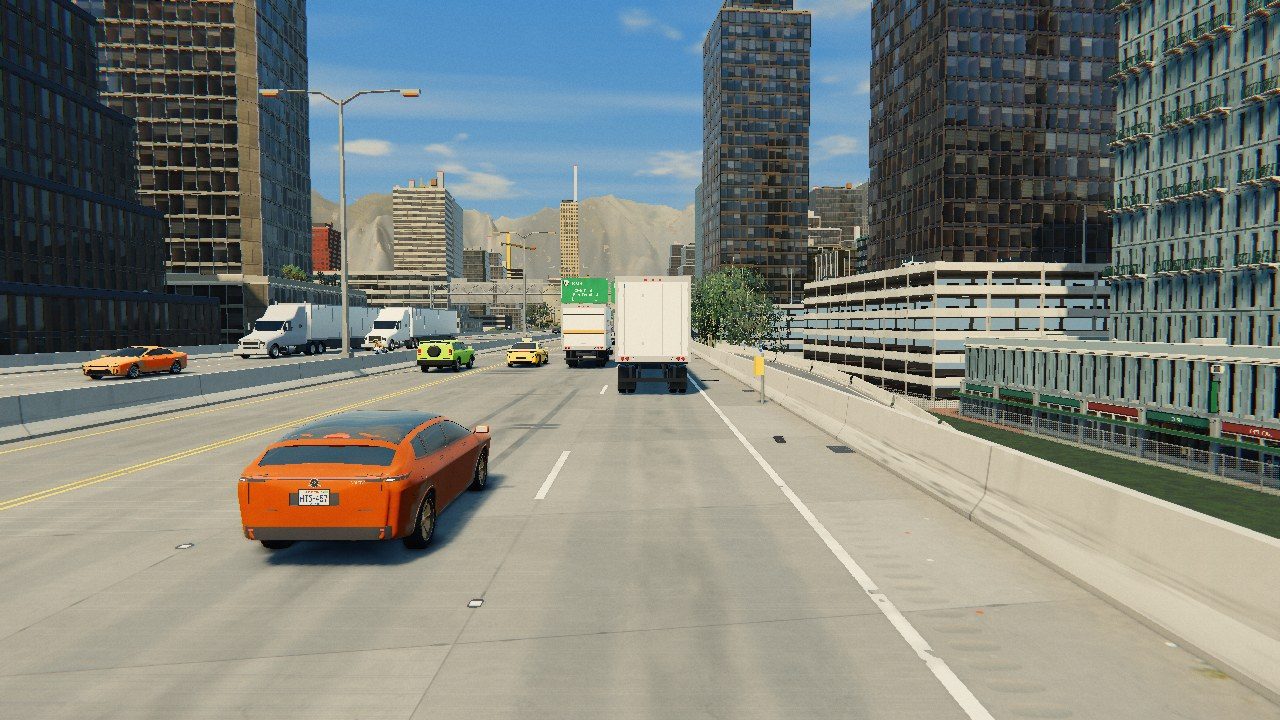
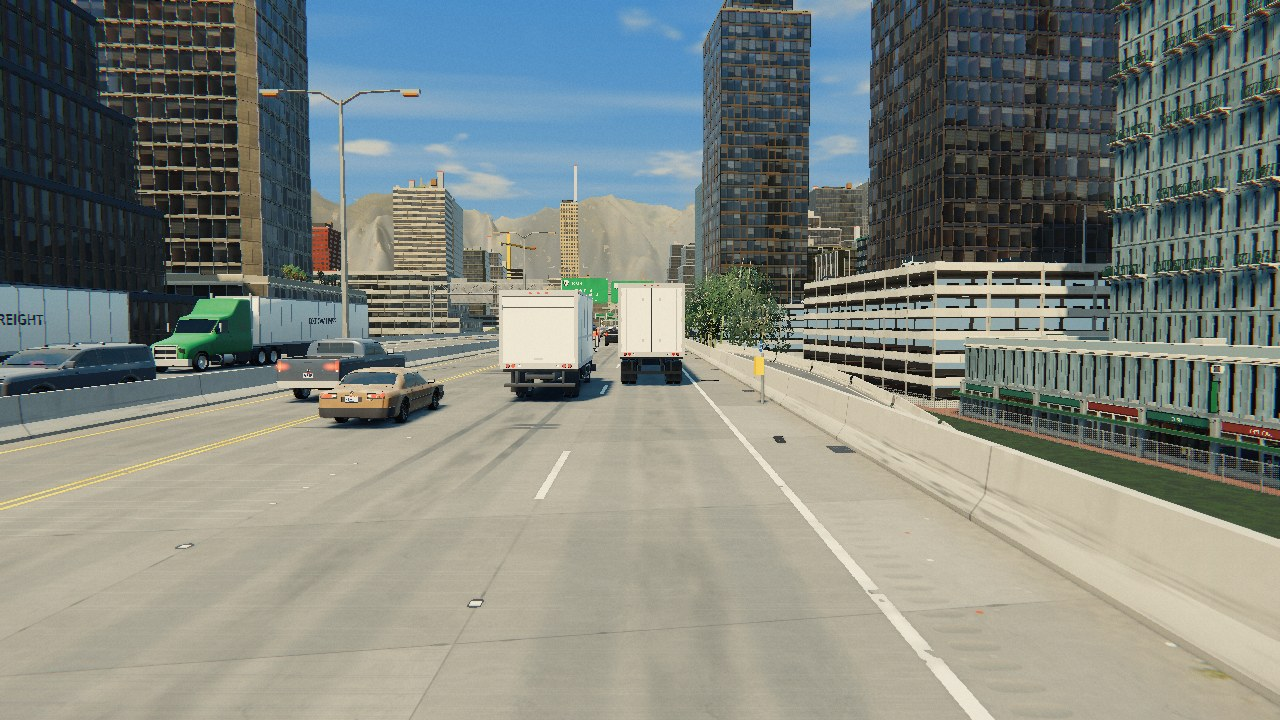
rc-freeway: final stills

diff --git a/README.md b/README.md
@@ -5,3 +5,6 @@ The freeway reference camera (the 110 by downtown, 13:00 clear), before (main e5
 - 01 / 02: the refcam (opengl3 1280x720): the deck nearly empty at noon -> per-lane traffic fill.
 - 03 / 04: the deck close up (block_shot): moire rings from the tining and a ladder of black tiles for the rumble strip -> rounded tining that fades early, milled scoops.
 - 05 / 06: the outer barrier at a bend: a dashed crack between deck segments -> mitred segment ends.
+- 07: the after refcam from another run (traffic differs run to run: here a semi sits just ahead).
+- 08: all ten refcams, before (FREEWAY_FILL=0 FREEWAY_LOOK=0, = main) over after: only the freeway moves.
+- 09: after, the shoulder and barrier close up (scoops, mitred barrier, joints).
